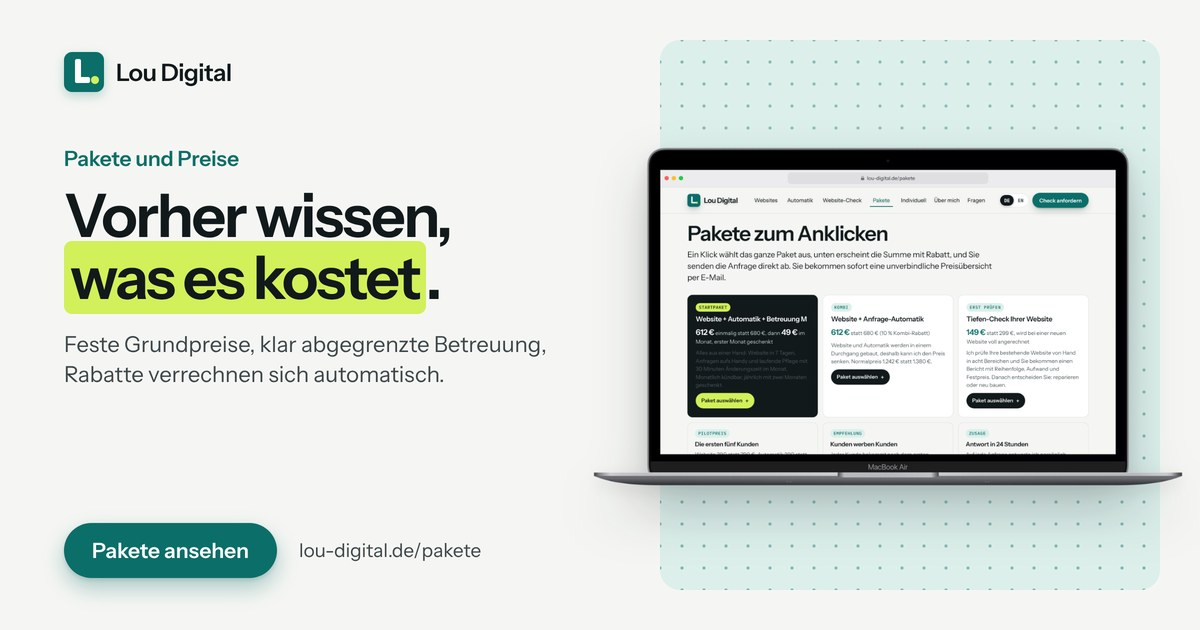
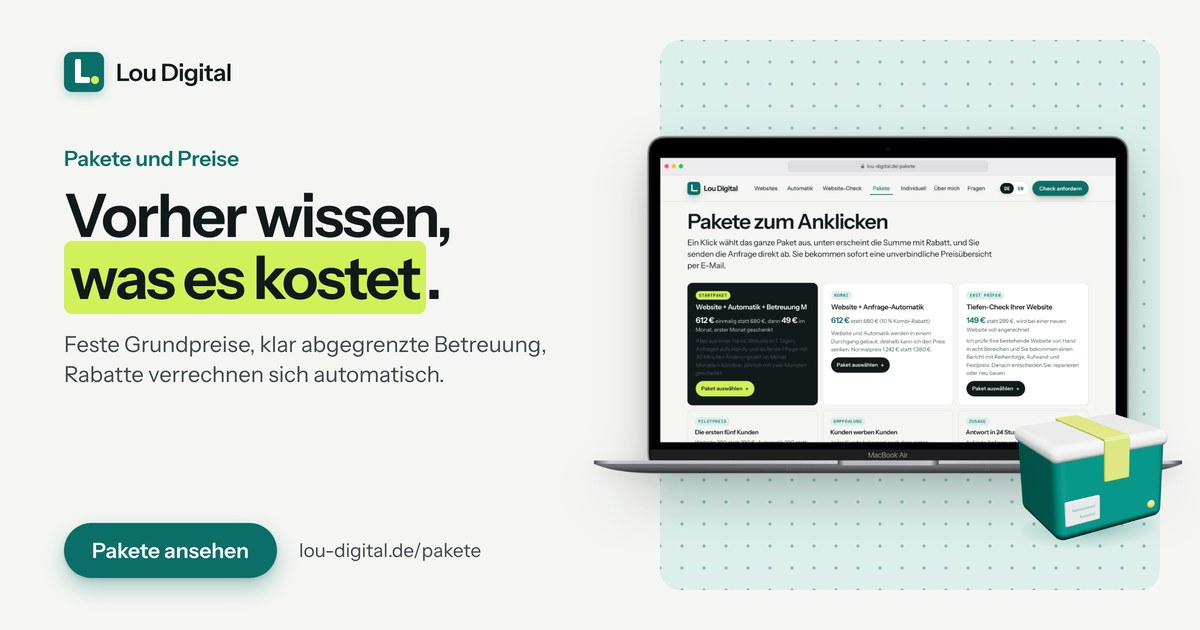
Vorschaubilder: Blickpunkt Bildmitte, sanftere Neigung, 3D-Figuren zurück
Handys zeigen ihre linke Seite (rechts der Bildmitte), nur noch leicht geneigt,
3D-Figuren der Website gespiegelt passend zur Blickrichtung, Websites-Laptop
mit linker Seite vorn. og:image auf ?v=4.

Claude-Session: https://claude.ai/code/session_012vLBxSfimEBeqLoeLwvpxn

Changed region(s): [[0.4933, 0.2111, 0.9867, 0.8746]]

diff --git a/automatik.html b/automatik.html
@@ -16,7 +16,7 @@
 <meta property="og:description" content="Automatisierung für Ihr Kontaktformular. Jede Anfrage landet in einer Tabelle und als Nachricht auf Ihrem Handy, und der Kunde bekommt sofort eine Bestätigung. Eingerichtet in 5 Tagen.">
 <meta property="og:type" content="website">
 <meta property="og:url" content="https://lou-digital.de/automatik">
-<meta property="og:image" content="https://lou-digital.de/img/og-automatik.jpg?v=3">
+<meta property="og:image" content="https://lou-digital.de/img/og-automatik.jpg?v=4">
 <meta property="og:image:width" content="1200">
 <meta property="og:image:height" content="630">
 <meta property="og:image:alt" content="Anfrage-Automatik von Lou Digital: Formular, Tabelle und Handy arbeiten zusammen">

diff --git a/website-check.html b/website-check.html
@@ -16,7 +16,7 @@
 <meta property="og:description" content="Kostenloser Website-Check mit 100 Prüfpunkten zu Sicherheit, Recht, Handy, Google, Tempo und Anbindungen wie Formular, Karte und Buchung. Das Ergebnis kommt sofort.">
 <meta property="og:type" content="website">
 <meta property="og:url" content="https://lou-digital.de/website-check">
-<meta property="og:image" content="https://lou-digital.de/img/og-website-check.jpg?v=3">
+<meta property="og:image" content="https://lou-digital.de/img/og-website-check.jpg?v=4">
 <meta property="og:image:width" content="1200">
 <meta property="og:image:height" content="630">
 <meta property="og:image:alt" content="Kostenloser Website-Check von Lou Digital: 100 Prüfpunkte, Ergebnis in etwa 15 Sekunden">

diff --git a/pakete.html b/pakete.html
@@ -16,7 +16,7 @@
 <meta property="og:description" content="Feste Pakete und klare Preise: Website in 7 Tagen, Anfrage-Automatik, Kundenumfrage, Tiefen-Check und Betreuung S/M/L/E ab 29 € im Monat. Der Website-Check ist kostenlos.">
 <meta property="og:type" content="website">
 <meta property="og:url" content="https://lou-digital.de/pakete">
-<meta property="og:image" content="https://lou-digital.de/img/og-pakete.jpg?v=3">
+<meta property="og:image" content="https://lou-digital.de/img/og-pakete.jpg?v=4">
 <meta property="og:image:width" content="1200">
 <meta property="og:image:height" content="630">
 <meta property="og:image:alt" content="Pakete und Preise von Lou Digital: feste Grundpreise und klar abgegrenzte Betreuung">

diff --git a/kontakt.html b/kontakt.html
@@ -16,7 +16,7 @@
 <meta property="og:description" content="Fragen Sie bei Lou Digital in Karlsruhe an, wählen Sie Pakete, vereinbaren Sie ein Gespräch oder fordern Sie den kostenlosen Website-Check an. Sie bekommen sofort eine Bestätigung.">
 <meta property="og:type" content="website">
 <meta property="og:url" content="https://lou-digital.de/kontakt">
-<meta property="og:image" content="https://lou-digital.de/img/og-kontakt.jpg?v=3">
+<meta property="og:image" content="https://lou-digital.de/img/og-kontakt.jpg?v=4">
 <meta property="og:image:width" content="1200">
 <meta property="og:image:height" content="630">
 <meta property="og:image:alt" content="Anfrage an Lou Digital: Antwort in der Regel innerhalb von 24 Stunden">

diff --git a/start.html b/start.html
@@ -18,7 +18,7 @@
 <meta property="og:description" content="Lou Digital aus Karlsruhe bietet Webdesign, eine Website in 7 Tagen, Anfrage-Automatik und Betreuung für Unternehmen mit Anspruch. Der Website-Check ist kostenlos.">
 <meta property="og:type" content="website">
 <meta property="og:url" content="https://lou-digital.de/">
-<meta property="og:image" content="https://lou-digital.de/img/og-start.jpg?v=3">
+<meta property="og:image" content="https://lou-digital.de/img/og-start.jpg?v=4">
 <meta property="og:image:width" content="1200">
 <meta property="og:image:height" content="630">
 <meta property="og:image:alt" content="Lou Digital: Websites und Automatisierung aus Karlsruhe, Startseite auf Laptop und Handy">

diff --git a/websites.html b/websites.html
@@ -16,7 +16,7 @@
 <meta property="og:description" content="Webdesign aus Karlsruhe mit Onepager oder bis zu fünf Seiten in 7 Tagen, mobil optimiert und mit Kontaktformular. Fester Preis, Domain auf Ihren Namen.">
 <meta property="og:type" content="website">
 <meta property="og:url" content="https://lou-digital.de/websites">
-<meta property="og:image" content="https://lou-digital.de/img/og-websites.jpg?v=3">
+<meta property="og:image" content="https://lou-digital.de/img/og-websites.jpg?v=4">
 <meta property="og:image:width" content="1200">
 <meta property="og:image:height" content="630">
 <meta property="og:image:alt" content="Website in 7 Tagen von Lou Digital: fester Preis, feste Lieferzeit">
